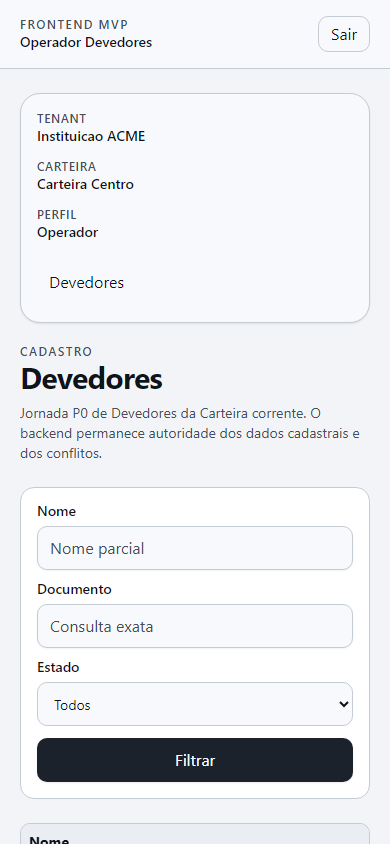
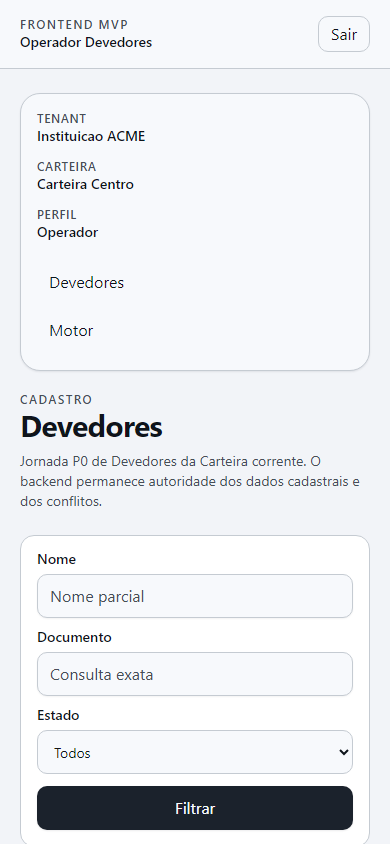
feat(frontend): Devedor abre com os emprestimos dele (IMP-310)
Abrir um Devedor agora mostra os emprestimos dele, agrupados pelo estado
que o backend devolveu. Reusa o filtro `devedor_id` que a listagem ja
aceita — nenhuma superficie nova. Grupo vazio e omitido: na pagina de um
Devedor especifico seria ruido, e a ausencia total tem mensagem propria.

O gate de Devedores proibe **vocabulario** financeiro (`emprestimo`,
`parcela`, `saldo`) em components/devedores/, no BFF e na policy — e o
IMP-310 exige justamente mostrar emprestimos ali. Mesmo choque da DR-002.
Nao afrouxei a regra nem criei arquivo irmao fora da varredura, que seria
repetir a evasao documentada em dependencies.py:643: a apresentacao de
Emprestimo ficou em components/motor/, que ja e governado para isso, e a
pagina do Devedor apenas embute. O gate segue valendo integralmente.

Corrige tambem a causa da evidencia visual irreprodutivel, que no IMP-309
eu havia registrado como nao isolada. E o Correlation ID: um UUID novo a
cada requisicao, impresso na tela. Mesmo dentro de regiao escondida por
`visibility: hidden` ele desestabiliza a captura, porque a regiao continua
ocupando layout e glifos diferentes quebram a linha em pontos diferentes,
deslocando tudo abaixo. As jornadas agora o congelam antes da captura,
preservando os 36 caracteres para nao mover o layout.

Medido: Devedores passou a 4/4 deterministicas em execucoes consecutivas,
e no Motor pagamento-flow-mobile estabilizou. Em emprestimo-detail-desktop
[…]

Changed region(s): [[0.0308, 0.3697, 0.9538, 1.0], [0.9231, 0.6161, 0.9538, 0.6469], [0.9231, 0.3697, 0.9538, 0.4005]]

diff --git a/frontend/tests/devedores-e2e/devedores.spec.ts b/frontend/tests/devedores-e2e/devedores.spec.ts
@@ -17,6 +17,28 @@ async function assertNoToken(page: Page, context: BrowserContext) {
   expect((await context.cookies()).every((cookie) => cookie.httpOnly)).toBe(true);
 }
 
+/**
+ * Congela o Correlation ID antes da captura de evidencia.
+ *
+ * O identificador e um UUID novo a cada requisicao e aparece impresso na tela
+ * apos Inativar/Reativar. Sem isto a evidencia visual nunca se repete: duas
+ * execucoes identicas produzem PNGs diferentes, e o pino de SHA no relatorio
+ * vira ruido em vez de prova. A substituicao mantem os mesmos 36 caracteres,
+ * para nao deslocar o layout.
+ */
+async function freezeCorrelationIds(page: Page) {
+  await page.evaluate(() => {
+    const UUID = /^[0-9a-f]{8}-[0-9a-f]{4}-[0-9a-f]{4}-[0-9a-f]{4}-[0-9a-f]{12}$/i;
+    const walker = document.createTreeWalker(document.body, NodeFilter.SHOW_TEXT);
+    for (let node = walker.nextNode(); node; node = walker.nextNode()) {
+      const value = node.nodeValue?.trim() ?? "";
+      if (UUID.test(value) && (node.parentElement?.textContent ?? "").includes("Correlation ID")) {
+        node.nodeValue = "00000000-0000-4000-8000-00000000evid";
+      }
+    }
+  });
+}
+
 test.beforeEach(async ({ page }) => {
   page.on("console", (message) => { if (message.type() === "error") throw new Error(`console error: ${message.text()}`); });
   page.on("pageerror", (error) => { throw error; });
@@ -43,11 +65,18 @@ test("detalhe, historico e comandos idempotentes respeitam RBAC exato", async ({
   await page.getByRole("link", { name: "Consultar" }).first().click();
   await expect(page.getByRole("heading", { name: "Cliente Devedor" })).toBeVisible();
   await expect(page.getByText("criar.sucesso")).toBeVisible();
+  // Abrir o Devedor ja mostra a situacao dos emprestimos dele, agrupada pelo
+  // estado que o backend devolveu. Grupo sem nada nao aparece.
+  await expect(page.getByRole("heading", { name: "Emprestimos deste devedor" })).toBeVisible();
+  await expect(page.getByRole("heading", { name: /Em andamento \(1\)/ })).toBeVisible();
+  await expect(page.getByRole("heading", { name: /Quitados \(1\)/ })).toBeVisible();
+  await expect(page.getByRole("heading", { name: /Encerrados/ })).toHaveCount(0);
   await page.getByRole("button", { name: "Inativar" }).click();
   await expect(page.getByText(/Devedor inativado com sucesso/)).toBeVisible();
   await page.getByRole("button", { name: "Reativar" }).click();
   await expect(page.getByText(/Devedor reativado com sucesso/)).toBeVisible();
   const suffix = testInfo.project.name.startsWith("mobile") ? "devedor-form-mobile" : "devedor-detail-desktop";
+  await freezeCorrelationIds(page);
   await page.screenshot({ animations: "disabled", caret: "initial", fullPage: false, path: resolve(`../docs/audits/evidence/frontend-mvp-imp-291-${suffix}.png`) });
   await page.getByRole("button", { name: "Sair" }).click();
   await expect(page).toHaveURL(/\/login$/);
@@ -55,6 +84,9 @@ test("detalhe, historico e comandos idempotentes respeitam RBAC exato", async ({
   await page.goto("/app/devedores/00000000-0000-4000-8000-000000000010");
   await expect(page.getByText("Sem permissao de atualizar Devedor.")).toBeVisible();
   await expect(page.getByText("Sem permissao de inativar Devedor.")).toBeVisible();
+  // Sem motor.emprestimo.ler o bloco nega, e o detalhe do Devedor continua util.
+  await expect(page.getByText("Modulo Motor indisponivel para as permissoes efetivas atuais.")).toBeVisible();
+  await expect(page.getByRole("heading", { name: "Cliente Devedor" })).toBeVisible();
 });
 
 test("busca por documento, estados vazios e erros 404/409/422 sao seguros", async ({ page }) => {

diff --git a/frontend/src/components/motor/motor.tsx b/frontend/src/components/motor/motor.tsx
@@ -202,6 +202,64 @@ export function MotorPage({ createAction, devedores, filters, initialContractId,
   );
 }
 
+/**
+ * Emprestimos de um Devedor, para embutir na pagina de detalhe dele.
+ *
+ * Vive no modulo Motor de proposito. O Devedores e proibido por gate de nomear
+ * regra financeira, e a proibicao esta certa: quem apresenta Emprestimo e o
+ * Motor. A pagina de Devedor apenas embute este bloco, entao o gate continua
+ * valendo integralmente em `components/devedores/`.
+ *
+ * Somente leitura, e somente valores que o backend devolveu. Os grupos vazios
+ * sao omitidos: na pagina de um Devedor especifico eles seriam ruido, e a
+ * ausencia total ja tem mensagem propria.
+ */
+export function EmprestimosDoDevedor({ recoveryHref, result }: Readonly<{ recoveryHref: string; result: MotorReadResult<LoanList> }>) {
+  return (
+    <section className="space-y-4">
+      <h2 className="text-2xl font-semibold tracking-tight">Emprestimos deste devedor</h2>
+      {result.kind === "denied" ? <DeniedPanel /> : null}
+      {result.kind === "problem" ? <ProblemPanel problem={result.problem} recoveryHref={recoveryHref} /> : null}
+      {result.kind === "ready" && result.data.items.length === 0 ? (
+        <p className="rounded-2xl border border-dashed border-border p-6 text-sm text-muted-foreground">
+          Este devedor ainda nao tem nenhum emprestimo.
+        </p>
+      ) : null}
+      {result.kind === "ready"
+        ? agruparPorSituacao(result.data.items)
+            .filter((grupo) => grupo.emprestimos.length > 0)
+            .map((grupo) => (
+              <div className="space-y-3" key={grupo.chave}>
+                <h3 className="text-lg font-semibold">
+                  {grupo.titulo} <span className="text-base font-normal text-muted-foreground">({grupo.emprestimos.length})</span>
+                </h3>
+                <ul className="grid list-none gap-3 p-0">
+                  {grupo.emprestimos.map((loan) => (
+                    <li className="rounded-2xl border border-border bg-card p-4 shadow-sm" key={loan.id}>
+                      <div className="flex flex-wrap items-center justify-between gap-3">
+                        <p className="text-sm">
+                          <span className="text-lg font-semibold">
+                            {loan.moeda} {loan.principal_original}
+                          </span>
+                          <span className="text-muted-foreground"> · desde {loan.criado_em.slice(0, 10)}</span>
+                        </p>
+                        <Link
+                          className="shrink-0 rounded-xl border border-border px-3 py-2 text-sm font-semibold text-primary underline-offset-4 hover:underline"
+                          href={`/app/motor/${loan.id}`}
+                        >
+                          Ver parcelas
+                        </Link>
+                      </div>
+                    </li>
+                  ))}
+                </ul>
+              </div>
+            ))
+        : null}
+    </section>
+  );
+}
+
 function DetailCommands({
   generateInstallmentsAction,
   initialState,

diff --git a/frontend/src/app/app/devedores/[devedorId]/page.tsx b/frontend/src/app/app/devedores/[devedorId]/page.tsx
@@ -3,10 +3,12 @@ import { cookies } from "next/headers";
 import { redirect } from "next/navigation";
 
 import { DevedorDetailPage } from "@/components/devedores/devedores";
+import { EmprestimosDoDevedor } from "@/components/motor/motor";
 import { createRuntimeDependencies } from "@/lib/bff/backend.server";
 import { recoveryAttemptCookieName } from "@/lib/bff/context.server";
 import { currentOperationalContext } from "@/lib/bff/current-context.server";
 import { getDevedor, getDevedorHistory } from "@/lib/bff/devedores.server";
+import { listLoans } from "@/lib/bff/motor.server";
 import { INITIAL_DEVEDOR_ACTION_STATE } from "@/lib/devedores/devedores-policy";
 
 import {
@@ -24,25 +26,32 @@ export default async function DevedorDetailRoute({ params }: PageProps<"/app/dev
   const cookieStore = await cookies();
   const dependencies = createRuntimeDependencies();
   const context = await currentOperationalContext();
-  const [devedor, history] = await Promise.all([
+  const [devedor, history, emprestimos] = await Promise.all([
     getDevedor(cookieStore, context, devedorId, dependencies),
     getDevedorHistory(cookieStore, context, devedorId, dependencies),
+    // Filtro por Devedor que o endpoint de listagem ja aceita: nenhuma
+    // superficie nova, e a situacao vem do backend em vez de ser deduzida aqui.
+    listLoans(cookieStore, context, { devedorId, page: 1, size: 100 }, dependencies),
   ]);
-  for (const result of [devedor, history]) {
-    if (result.kind === "problem" && result.problem.status === 401) {
-      redirect(cookieStore.get(recoveryAttemptCookieName(dependencies.config)) ? "/login" : "/session/recover");
-    }
+  const recoveryHref = cookieStore.get(recoveryAttemptCookieName(dependencies.config)) ? "/login" : "/session/recover";
+  for (const result of [devedor, history, emprestimos]) {
+    if (result.kind === "problem" && result.problem.status === 401) redirect(recoveryHref);
   }
   return (
-    <DevedorDetailPage
-      devedor={devedor}
-      history={history}
-      inactivateAction={inactivateDevedorAction}
-      initialState={INITIAL_DEVEDOR_ACTION_STATE}
-      permissions={context.permissoes}
-      reactivateAction={reactivateDevedorAction}
-      recoveryHref={cookieStore.get(recoveryAttemptCookieName(dependencies.config)) ? "/login" : "/session/recover"}
-      updateAction={updateDevedorAction}
-    />
+    <>
+      <DevedorDetailPage
+        devedor={devedor}
+        history={history}
+        inactivateAction={inactivateDevedorAction}
+        initialState={INITIAL_DEVEDOR_ACTION_STATE}
+        permissions={context.permissoes}
+        reactivateAction={reactivateDevedorAction}
+        recoveryHref={recoveryHref}
+        updateAction={updateDevedorAction}
+      />
+      <div className="p-6 pt-0">
+        <EmprestimosDoDevedor recoveryHref={recoveryHref} result={emprestimos} />
+      </div>
+    </>
   );
 }

diff --git a/frontend/tests/component/motor.test.tsx b/frontend/tests/component/motor.test.tsx
@@ -1,7 +1,7 @@
 import { render, screen } from "@testing-library/react";
 import { describe, expect, it } from "vitest";
 
-import { MotorDetailPage, MotorPage } from "../../src/components/motor/motor";
+import { EmprestimosDoDevedor, MotorDetailPage, MotorPage } from "../../src/components/motor/motor";
 import { INITIAL_MOTOR_ACTION_STATE, type Balance, type CalculationMemory, type InstallmentPlan, type Loan, type LoanList, type SettlementPreview } from "../../src/lib/motor/motor-policy";
 
 const permissions = [
@@ -135,6 +135,27 @@ describe("Motor UI", () => {
     expect(screen.queryByText(encerrado.devedor_id)).not.toBeInTheDocument();
 
     expect(screen.getAllByRole("link", { name: /Ver parcelas/i })).toHaveLength(3);
+  });
+
+  it("embute os emprestimos do Devedor, omitindo grupo vazio e sem deduzir situacao", () => {
+    const quitado: Loan = { ...loan, estado: "quitado", id: "00000000-0000-4000-8000-000000000043" };
+    const list: LoanList = { items: [loan, quitado], page: 1, pages: 1, size: 100, total: 2 };
+    render(<EmprestimosDoDevedor recoveryHref="/session/recover" result={{ kind: "ready", data: list }} />);
+
+    expect(screen.getByRole("heading", { name: /Emprestimos deste devedor/i })).toBeInTheDocument();
+    expect(screen.getByRole("heading", { name: /Em andamento \(1\)/i })).toBeInTheDocument();
+    expect(screen.getByRole("heading", { name: /Quitados \(1\)/i })).toBeInTheDocument();
+    // Na pagina de um Devedor especifico, grupo sem nada e ruido.
+    expect(screen.queryByRole("heading", { name: /Encerrados/i })).not.toBeInTheDocument();
+    expect(screen.getAllByRole("link", { name: /Ver parcelas/i })).toHaveLength(2);
+  });
+
+  it("declara ausencia total de emprestimo do Devedor sem inventar grupo", () => {
+    const list: LoanList = { items: [], page: 1, pages: 0, size: 100, total: 0 };
+    render(<EmprestimosDoDevedor recoveryHref="/session/recover" result={{ kind: "ready", data: list }} />);
+
+    expect(screen.getByText(/Este devedor ainda nao tem nenhum emprestimo/i)).toBeInTheDocument();
+    expect(screen.queryByRole("heading", { name: /Em andamento/i })).not.toBeInTheDocument();
   });
 
   it("mostra denied sem tentar fallback permissivo", () => {

diff --git a/frontend/tests/motor-e2e/motor.spec.ts b/frontend/tests/motor-e2e/motor.spec.ts
@@ -32,6 +32,19 @@ async function prepareEvidenceScreenshot(page: Page) {
     style.textContent = "[aria-live='polite'] { visibility: hidden !important; }";
     document.head.appendChild(style);
     window.scrollTo(0, 0);
+    // Congela o Correlation ID: e um UUID novo a cada requisicao. Mesmo dentro
+    // da regiao escondida por `visibility: hidden` ele desestabiliza a captura,
+    // porque a regiao continua ocupando layout e glifos diferentes quebram a
+    // linha em pontos diferentes, deslocando tudo abaixo. A substituicao mantem
+    // os mesmos 36 caracteres.
+    const UUID = /^[0-9a-f]{8}-[0-9a-f]{4}-[0-9a-f]{4}-[0-9a-f]{4}-[0-9a-f]{12}$/i;
+    const walker = document.createTreeWalker(document.body, NodeFilter.SHOW_TEXT);
+    for (let node = walker.nextNode(); node; node = walker.nextNode()) {
+      const value = node.nodeValue?.trim() ?? "";
+      if (UUID.test(value) && (node.parentElement?.textContent ?? "").includes("Correlation ID")) {
+        node.nodeValue = "00000000-0000-4000-8000-00000000evid";
+      }
+    }
   });
 }
 

diff --git a/docs/audits/reports/frontend-mvp-imp-294-motor-report-2026-08-14.md b/docs/audits/reports/frontend-mvp-imp-294-motor-report-2026-08-14.md
@@ -68,7 +68,7 @@ reverter arquivos.
[5 lines of base64/hex data omitted]
 
 ---
 
@@ -77,16 +77,23 @@ reverter arquivos.
 > as capturas mudaram porque a tela mudou. Verificadas estaveis em quatro
 > execucoes consecutivas do `npm run test:motor`.
 >
-> **Defeito conhecido nas duas capturas de detalhe.** Elas variam entre execucoes
-> identicas, sem nenhuma alteracao de codigo: 34% dos pixels diferem, em toda a
-> area da imagem, com o texto pintado identico nas duas execucoes. Nenhum
-> deslocamento vertical entre -40 e +40 pixels realinha as imagens, entao nao e
-> simples rolagem. A causa nao foi isolada e o defeito e anterior ao IMP-309 —
-> por isso os pinos de detalhe permanecem nos bytes ja versionados, e nao nos
-> gerados localmente. Consequencia pratica: quem rodar o Playwright do Motor
-> localmente vera o gate `test-plan-025-contracts` acusar divergencia nessas duas
-> evidencias. Em CI nao ocorre, porque a certificacao roda antes do E2E
-> regenerar os PNGs.
+> **Causa da irreprodutibilidade isolada e corrigida no IMP-310.** As capturas de
+> detalhe variavam entre execucoes identicas: 34% dos pixels diferiam, em toda a
+> area da imagem. A causa e o Correlation ID — um UUID novo a cada requisicao.
+> Mesmo dentro da regiao escondida por `visibility: hidden`, ele desestabiliza a
+> captura, porque a regiao continua ocupando layout e glifos diferentes quebram
+> a linha em pontos diferentes, deslocando todo o conteudo abaixo. A jornada
+> agora o congela antes da captura, preservando os 36 caracteres.
+>
+> Resultado medido: `pagamento-flow-mobile` passou a ser deterministico e teve o
+> pino avancado. Em `emprestimo-detail-desktop` a instabilidade caiu de 441.801
+> para 9.616 pixels, confinados a uma faixa de 8 pixels na borda inferior da
+> viewport — residuo nao isolado. Por isso o pino dessa unica evidencia
+> permanece nos bytes ja versionados: a tela de detalhe nao mudou no IMP-310, e
+> pinar bytes instaveis registraria ruido em vez de prova. Consequencia pratica:
+> quem rodar o Playwright do Motor localmente vera o gate
+> `test-plan-025-contracts` acusar divergencia apenas nessa evidencia. Em CI nao
+> ocorre, porque a certificacao roda antes do E2E regenerar os PNGs.
 
 ---
 

diff --git a/docs/implementation/backlogs/PLAN-027-execution-backlog.md b/docs/implementation/backlogs/PLAN-027-execution-backlog.md
@@ -2,9 +2,9 @@
 
 **ID:** PLAN-027-EXEC
 
-**Versao:** 1.4.0
+**Versao:** 1.5.0
 
-**Status:** IMP-305, IMP-306, IMP-308 e IMP-309 concluidos; IMP-307, IMP-310 e IMP-311 planejados
+**Status:** IMP-305, IMP-306, IMP-308, IMP-309 e IMP-310 concluidos; IMP-307 e IMP-311 planejados
 
 ---
 
@@ -152,7 +152,17 @@ aprovacao permanece porque e a caixa de entrada do agente de IA
 - **Dependencias:** IMP-309.
 - **Criterios de conclusao:** somente leitura; somente valores retornados.
 - **Suite minima:** componente e Playwright.
-- **Status:** Planejado.
+- **Status:** Concluido.
+- **Nota de execucao:** o bloco reusa o filtro `devedor_id` que a listagem de
+  Emprestimos ja aceita — nenhuma superficie nova. Grupos vazios sao omitidos na
+  pagina de um Devedor especifico, e a ausencia total tem mensagem propria.
+- **Guardrail respeitado:** o gate de Devedores proibe **vocabulario**
+  financeiro (`emprestimo`, `parcela`, `saldo`) em `components/devedores/`,
+  `lib/bff/devedores.server.ts` e `lib/devedores/devedores-policy.ts`. Em vez de
+  afrouxar a regra ou de contorna-la criando arquivo irmao nao varrido — que
+  seria repetir a evasao documentada em `dependencies.py:643` —, a apresentacao
+  de Emprestimo ficou em `components/motor/`, que ja e governado para isso, e a
+  pagina do Devedor apenas a embute. O gate segue valendo integralmente.
 
 ---
 
@@ -193,6 +203,7 @@ aprovacao permanece porque e a caixa de entrada do agente de IA
 
 | Versao | Data | Descricao |
 |---|---|---|
+| 1.5.0 | 2026-08-17 | IMP-310 concluido: Devedor abre com os emprestimos dele; causa da evidencia visual irreprodutivel isolada e corrigida. |
 | 1.4.0 | 2026-08-17 | IMP-309 concluido: lista em tres grupos pelo estado oficial, Devedor pelo nome e evidencia visual repinada. |
 | 1.3.0 | 2026-08-17 | IMP-308 concluido em unidade, componente, BFF e contrato; verificacao em stack real pendente. |
 | 1.2.0 | 2026-08-16 | IMP-306 concluido: endpoint de lancamento publicado, inventario em 108/137 e pinos de contrato avancados. |

diff --git a/docs/audits/reports/frontend-mvp-imp-291-devedores-report-2026-08-14.md b/docs/audits/reports/frontend-mvp-imp-291-devedores-report-2026-08-14.md
@@ -85,10 +85,24 @@ Fronteiras preservadas:
 
 | Evidencia | Dimensao | SHA-256 |
 |---|---:|---|
[8 lines of base64/hex data omitted]
+
+---
+
+> **Pinos avancados no IMP-310** (PLAN-027). Duas causas distintas, ambas reais:
+>
+> 1. **A tela mudou.** O detalhe do Devedor passou a embutir os emprestimos dele,
+>    e o fixture passou a conceder `motor.emprestimo.ler` — o que faz o item
+>    "Motor" aparecer na navegacao tambem nas capturas de lista.
+> 2. **A evidencia era irreprodutivel.** As capturas de detalhe variavam entre
+>    execucoes identicas: o Correlation ID e um UUID novo a cada requisicao e era
+>    impresso na tela apos Inativar/Reativar. O pino de SHA registrava ruido, nao
+>    prova. A jornada agora congela o Correlation ID antes da captura, preservando
+>    os 36 caracteres para nao deslocar o layout. Verificado: 4/4 identicas em
+>    execucoes consecutivas.
 
 ---
 
